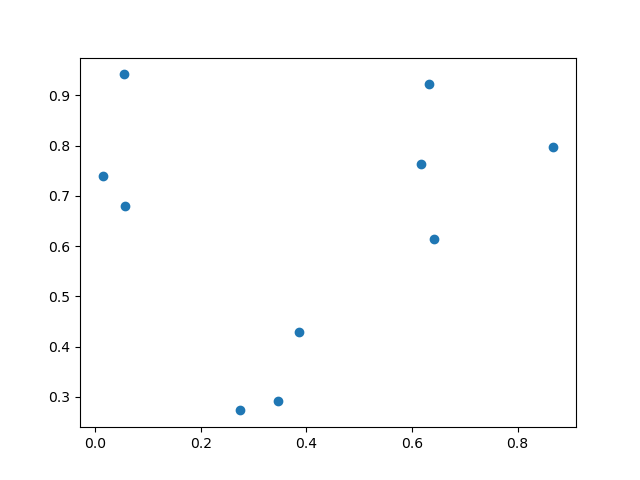
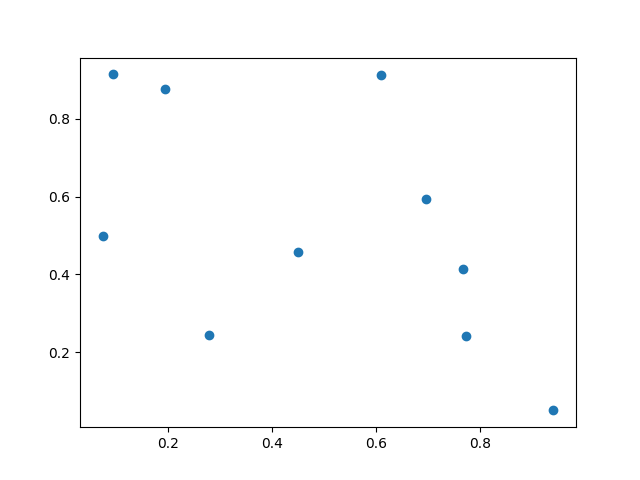
Fix a bug with matplotlib and MacOS

diff --git a/demos/views.py b/demos/views.py
@@ -2,6 +2,11 @@ import csv
 import io
 import os
 import numpy as np
+
+import matplotlib
+
+matplotlib.use("Agg")
+
 from matplotlib import pyplot as plt
 
 
@@ -9,6 +14,7 @@ from django.conf import settings
 from django.shortcuts import render
 from .forms import CSVUploadForm
 from django.http import HttpResponse, JsonResponse
+
 
 def index(request):
     return HttpResponse("Welcome to Project 1!")
@@ -18,11 +24,11 @@ def upload_csv(request):
     result = None
     error = None
 
-    if request.method == 'POST':
+    if request.method == "POST":
         form = CSVUploadForm(request.POST, request.FILES)
         if form.is_valid():
-            file = request.FILES['file']
-            decoded_file = file.read().decode('utf-8')
+            file = request.FILES["file"]
+            decoded_file = file.read().decode("utf-8")
             io_string = io.StringIO(decoded_file)
 
             try:
@@ -45,35 +51,32 @@ def upload_csv(request):
     else:
         form = CSVUploadForm()
 
-    return render(request, 'demos/upload.html', {
-        'form': form,
-        'result': result,
-        'error': error
-    })
+    return render(
+        request, "demos/upload.html", {"form": form, "result": result, "error": error}
+    )
 
 
 def save_plot(filename):
     image_path = os.path.join(settings.MEDIA_ROOT, filename)
-    
+
     x = np.random.rand(10)
     y = np.random.rand(10)
     plt.figure()
     plt.scatter(x, y)
     plt.savefig(image_path)
-    
+
     image_url = settings.MEDIA_URL + filename
     return image_url
 
 
-
 def generate_plot(request):
-    filename = 'myplot.png'
+    filename = "myplot.png"
     image_url = save_plot(filename)
-    return render(request, 'demos/show_plot.html', {'image_url': image_url})
+    return render(request, "demos/show_plot.html", {"image_url": image_url})
 
 
 def generate_plot_ajax(request):
     if request.method == "POST":
-        filename = 'myplot.png'
+        filename = "myplot.png"
         image_url = save_plot(filename)
-        return JsonResponse({'image_url': image_url})
+        return JsonResponse({"image_url": image_url})